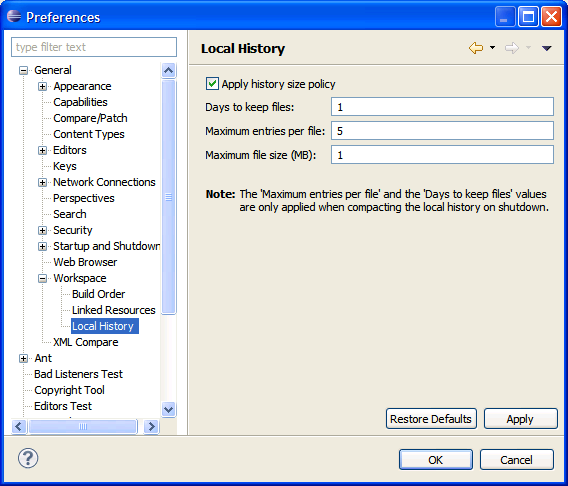
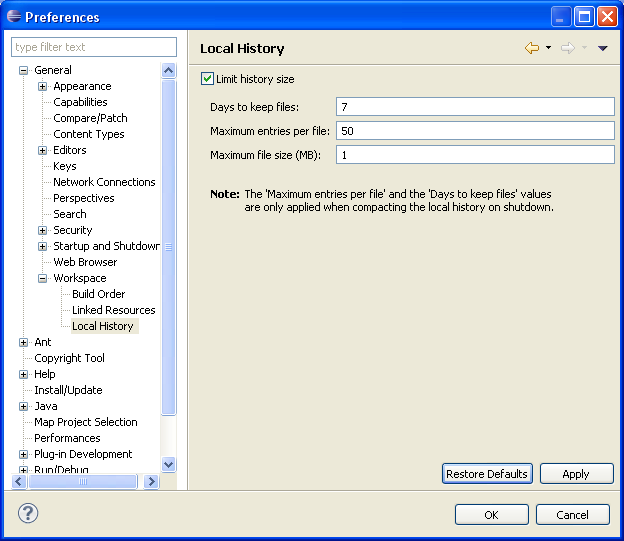
Fixed bug 292396: Dependent options on 'Local History' preference page not indented

Changed region(s): [[0.0, 0.0, 1.0, 1.0]]

diff --git a/bundles/org.eclipse.platform.doc.user/reference/ref-14.htm b/bundles/org.eclipse.platform.doc.user/reference/ref-14.htm
@@ -1,7 +1,7 @@
 <!DOCTYPE HTML PUBLIC "-//W3C//DTD HTML 4.0 Transitional//EN"><html lang="en">
 <HEAD>
 
-<meta name="copyright" content="Copyright (c) IBM Corporation and others 2000, 2005. This page is made available under license. For full details see the LEGAL in the documentation book that contains this page." >
+<meta name="copyright" content="Copyright (c) IBM Corporation and others 2000, 2009. This page is made available under license. For full details see the LEGAL in the documentation book that contains this page." >
 
 <META HTTP-EQUIV="Content-Type" CONTENT="text/html; charset=ISO-8859-1">
 <META HTTP-EQUIV="Content-Style-Type" CONTENT="text/css">
@@ -41,11 +41,10 @@ Default</P>
 <TBODY>
 <TR>
 <TD ROWSPAN="1" COLSPAN="1" valign="top" align="left">
-<P CLASS="Para"> Apply history size policy</P>
+<P CLASS="Para">Limit history size</P>
 </TD>
 <TD ROWSPAN="1" COLSPAN="1" valign="top" align="left">
-<P CLASS="Para">If enabled, then the policy specified by options
-below will be applied in order to limit local history size.</P>
+<P CLASS="Para">If enabled, then options below will be used to limit the local history size on disk.</P>
 </TD>
 <TD ROWSPAN="1" COLSPAN="1" valign="top" align="left">
 <P CLASS="Para">Enabled</P>

diff --git a/bundles/org.eclipse.platform.doc.user/tasks/tasks-88.htm b/bundles/org.eclipse.platform.doc.user/tasks/tasks-88.htm
@@ -23,8 +23,8 @@ each resource in the Workbench:
   <a class="command-link" href='javascript:executeCommand("org.eclipse.ui.window.preferences(preferencePageId=org.eclipse.ui.preferencePages.FileStates)")'>
   <img src="PLUGINS_ROOT/org.eclipse.help/command_link.png">
   <b>General &gt; Workspace &gt; Local History</b></a> preference page.</li>
-  <li>In the <b>Apply history size policy</b> field, specify whether you want
-  to limit local history size using following options.</li>
+  <li>In the <b>Limit history size</b> field, specify whether you want
+  to limit the local history size using following options.</li>
   <li>In the <b>Days to keep files</b> field, type the number of days that you 
     want to keep records for any one Workbench resource. For example, if you type 
     7, then a history of saved states from the last seven days will be kept.</li>
